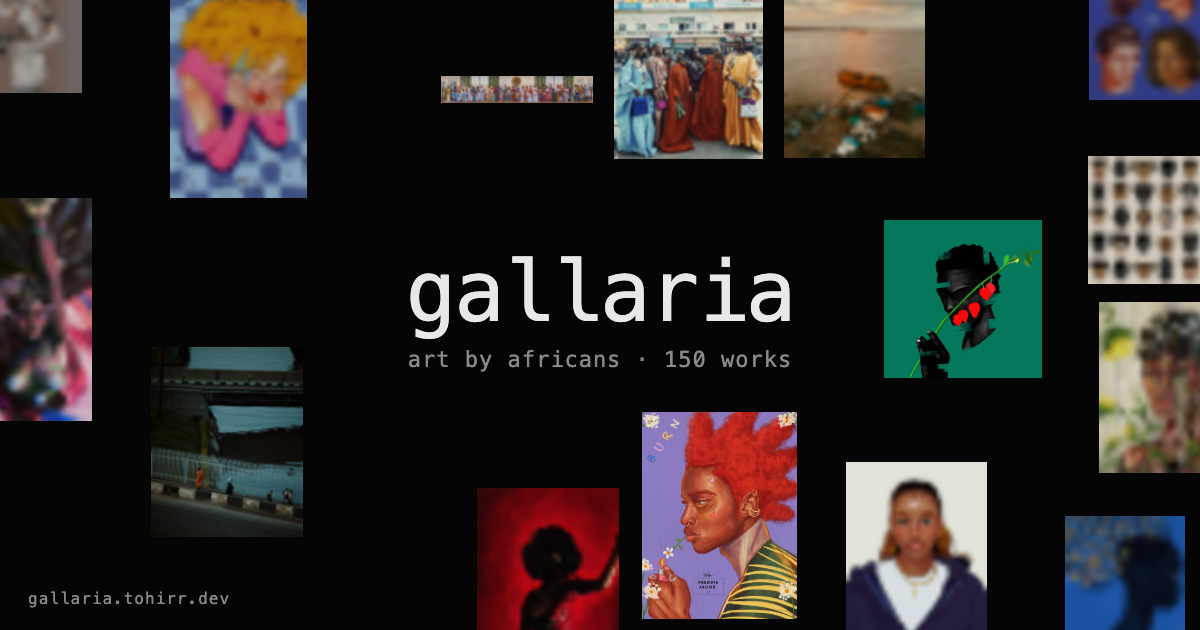
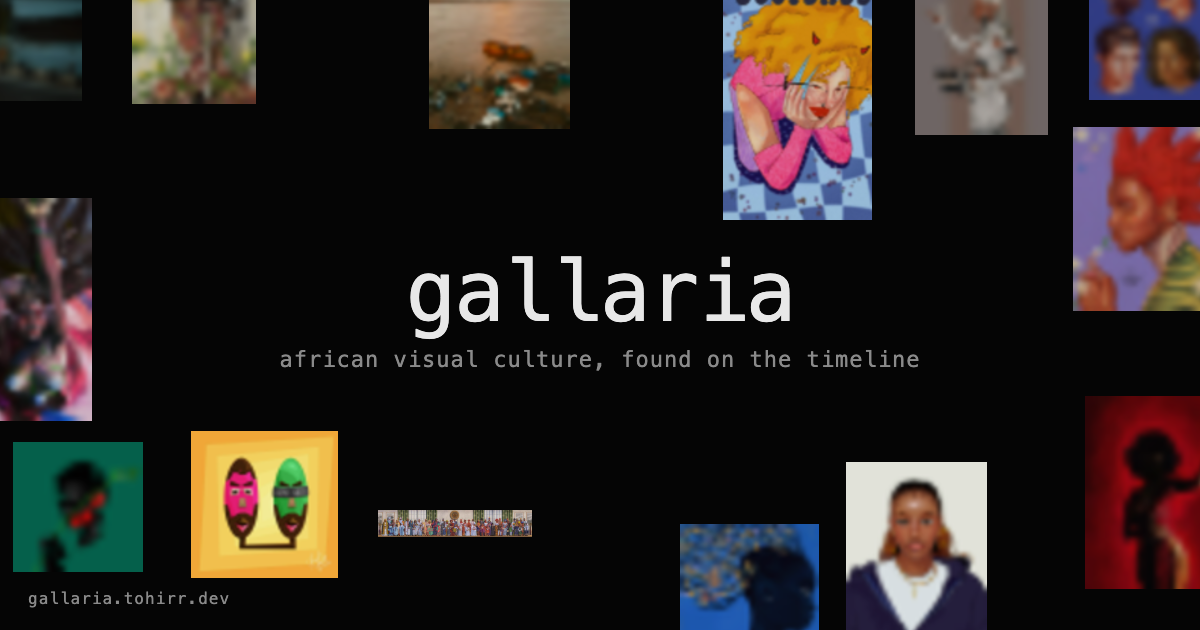
refactor: update meta tags and descriptions for clarity and consistency
- Changed Open Graph and Twitter meta titles to reflect "African visual culture" instead of "art by africans".
- Updated descriptions to emphasize a curated collection of African visual culture.
- Removed hint text in the HUD for a cleaner interface.
- Adjusted rendering logic in scripts to improve image loading and error handling.

diff --git a/scripts/og.html b/scripts/og.html
@@ -65,14 +65,21 @@
     return placed;
   }
 
-  const load = (src) => new Promise((res, rej) => { const img = new Image(); img.crossOrigin = "anonymous"; img.onload = () => res(img); img.onerror = rej; img.src = src; });
+  const load = (src) => new Promise((res, rej) => {
+    const img = new Image();
+    const timer = setTimeout(() => { img.src = ""; rej(new Error("image timed out")); }, 8000);
+    img.crossOrigin = "anonymous";
+    img.onload = () => { clearTimeout(timer); res(img); };
+    img.onerror = (err) => { clearTimeout(timer); rej(err); };
+    img.src = src;
+  });
 
-  async function render(canvas, works, images, total) {
+  async function render(canvas, works, images) {
     const W = canvas.width, H = canvas.height;
     const ctx = canvas.getContext("2d");
     ctx.fillStyle = BG;
     ctx.fillRect(0, 0, W, H);
-    const cards = scatter(works, W, H, { w: 520, h: 150 });
+    const cards = scatter(works, W, H, { w: 680, h: 150 });
     // far cards first so nearer, sharper ones sit on top if anything grazes
     cards.sort((a, b) => b.r2 - a.r2);
     for (const c of cards) {
@@ -116,7 +123,7 @@
     ctx.fillStyle = DIM;
     ctx.font = '22px "SF Mono", Menlo, ui-monospace, Consolas, monospace';
     ctx.letterSpacing = "1px";
-    ctx.fillText(`art by africans · ${total} works`, W / 2, H / 2 + 52);
+    ctx.fillText("african visual culture, found on the timeline", W / 2, H / 2 + 52);
     ctx.textAlign = "left";
     ctx.font = '16px "SF Mono", Menlo, ui-monospace, Consolas, monospace';
     ctx.fillText("gallaria.tohirr.dev", 28, H - 26);
@@ -130,9 +137,14 @@
   const chosen = [...catalog]
     .sort((a, b) => Number(b.context?.artist_name != null) - Number(a.context?.artist_name != null) || pick() - 0.5)
     .slice(0, WORKS);
-  const images = new Map(await Promise.all(chosen.map(async (w) => [w.public_id, await load(rungUrl(w, RUNG))])));
-  const n1 = await render(document.getElementById("og"), chosen, images, catalog.length);
-  const n2 = await render(document.getElementById("twitter"), chosen, images, catalog.length);
+  const loaded = await Promise.all(chosen.map(async (w) => {
+    try { return [w.public_id, await load(rungUrl(w, RUNG))]; }
+    catch { return null; }
+  }));
+  const images = new Map(loaded.filter(Boolean));
+  const drawable = chosen.filter((w) => images.has(w.public_id));
+  const n1 = await render(document.getElementById("og"), drawable, images);
+  const n2 = await render(document.getElementById("twitter"), drawable, images);
   status.textContent = `og: ${n1} works · twitter: ${n2} works · catalog ${catalog.length}`;
 
   const post = params.get("post");

diff --git a/index.html b/index.html
@@ -8,25 +8,25 @@
 
     <meta property="og:type" content="website" />
     <meta property="og:url" content="https://gallaria.tohirr.dev/" />
-    <meta property="og:title" content="gallaria | art by africans" />
+    <meta property="og:title" content="gallaria | african visual culture" />
     <meta
       property="og:description"
-      content="An infinite canvas of art by African artists found on the internet, with links back to every artist."
+      content="A curated collection of African visual culture found on the timeline, with links back to every source."
     />
     <meta property="og:image" content="https://gallaria.tohirr.dev/og.png" />
     <meta property="og:image:width" content="1200" />
     <meta property="og:image:height" content="630" />
-    <meta property="og:image:alt" content="Works by African artists scattered over a dark field around the gallaria wordmark" />
+    <meta property="og:image:alt" content="African visual culture found on the timeline, arranged around the gallaria wordmark" />
 
     <meta name="twitter:card" content="summary_large_image" />
     <meta name="twitter:site" content="@_tohirr" />
-    <meta name="twitter:title" content="gallaria | art by africans" />
+    <meta name="twitter:title" content="gallaria | african visual culture" />
     <meta
       name="twitter:description"
-      content="An infinite canvas of art by African artists found on the internet, with links back to every artist."
+      content="A curated collection of African visual culture found on the timeline, with links back to every source."
     />
     <meta name="twitter:image" content="https://gallaria.tohirr.dev/twitter.png" />
-    <meta name="twitter:image:alt" content="Works by African artists scattered over a dark field around the gallaria wordmark" />
+    <meta name="twitter:image:alt" content="African visual culture found on the timeline, arranged around the gallaria wordmark" />
 
     <link rel="icon" type="image/png" href="/art.png" />
     <title>gallaria</title>
@@ -37,7 +37,7 @@
     <div id="hud">
       <div class="corner tl">gallaria</div>
       <div class="corner tr" id="count"></div>
-      <div class="corner bl" id="hint">drag · scroll · pinch · click</div>
+      <div class="corner bl" id="hint"></div>
       <div class="corner br" id="zoom"></div>
       <div id="mode" role="group" aria-label="View">
         <button type="button" data-mode="globe" aria-pressed="true" aria-label="Globe view" title="globe">

diff --git a/README.md b/README.md
@@ -1,8 +1,8 @@
 # gallaria
 
-An infinite, wrapping canvas of art by African artists. Drag to pan, scroll or
-pinch to zoom, click a work to focus it. Every attributed work links to the
-artist and to the tweet it came from.
+An infinite, wrapping canvas of African visual culture found on the timeline.
+Drag to pan, scroll or pinch to zoom, then click a work to focus it. Every
+attributed work links to its creator and to the tweet it came from.
 
 No framework: one WebGL2 context, a handful of ES modules, Vite for the dev
 server and build, and two Vercel functions (`api/catalog.js`, `api/link.js`).
